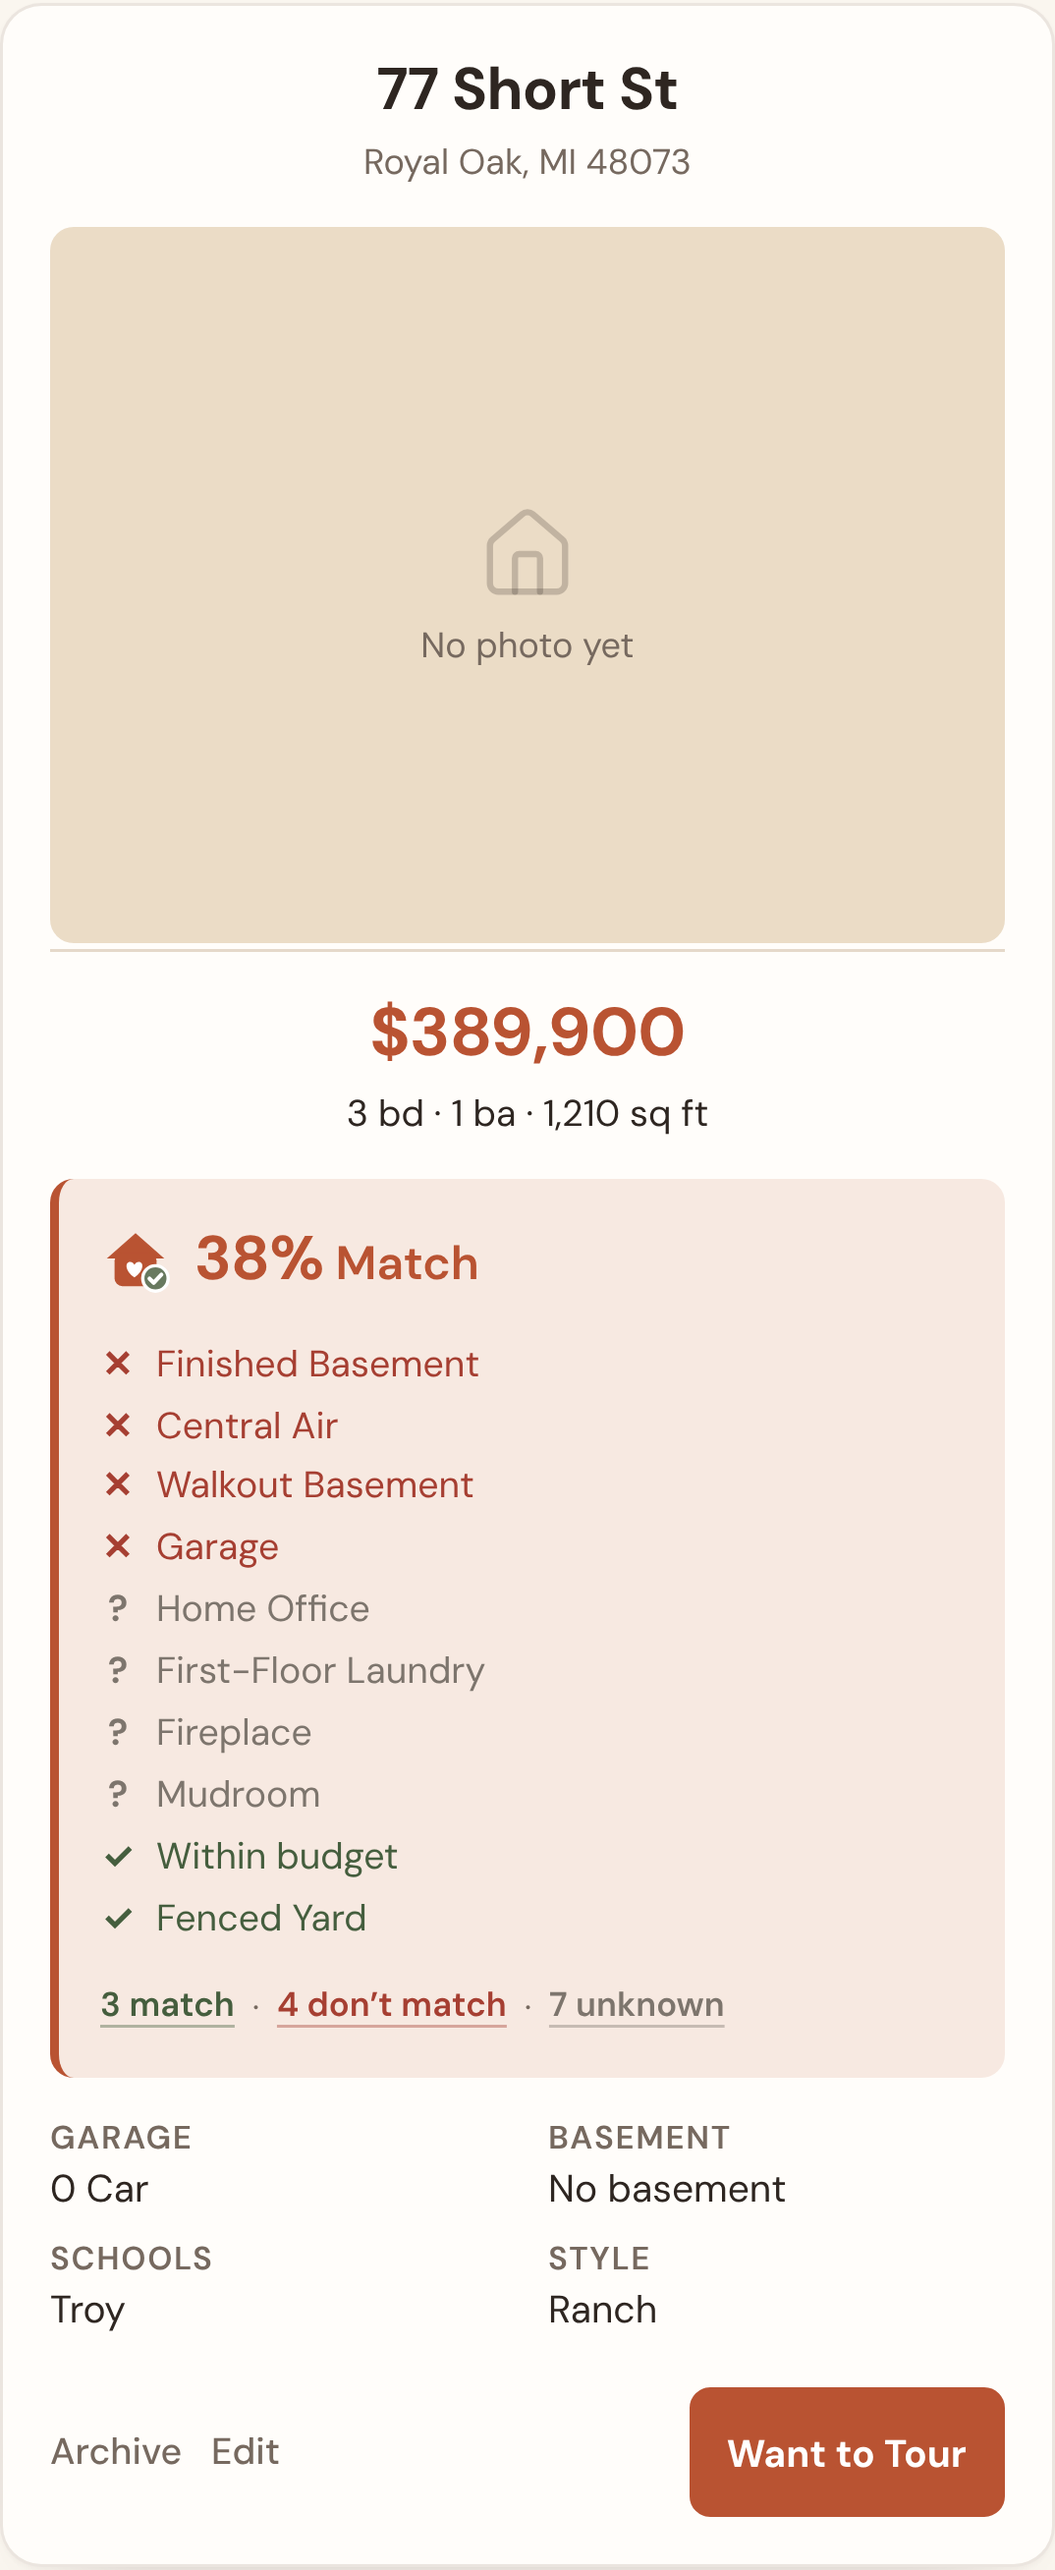
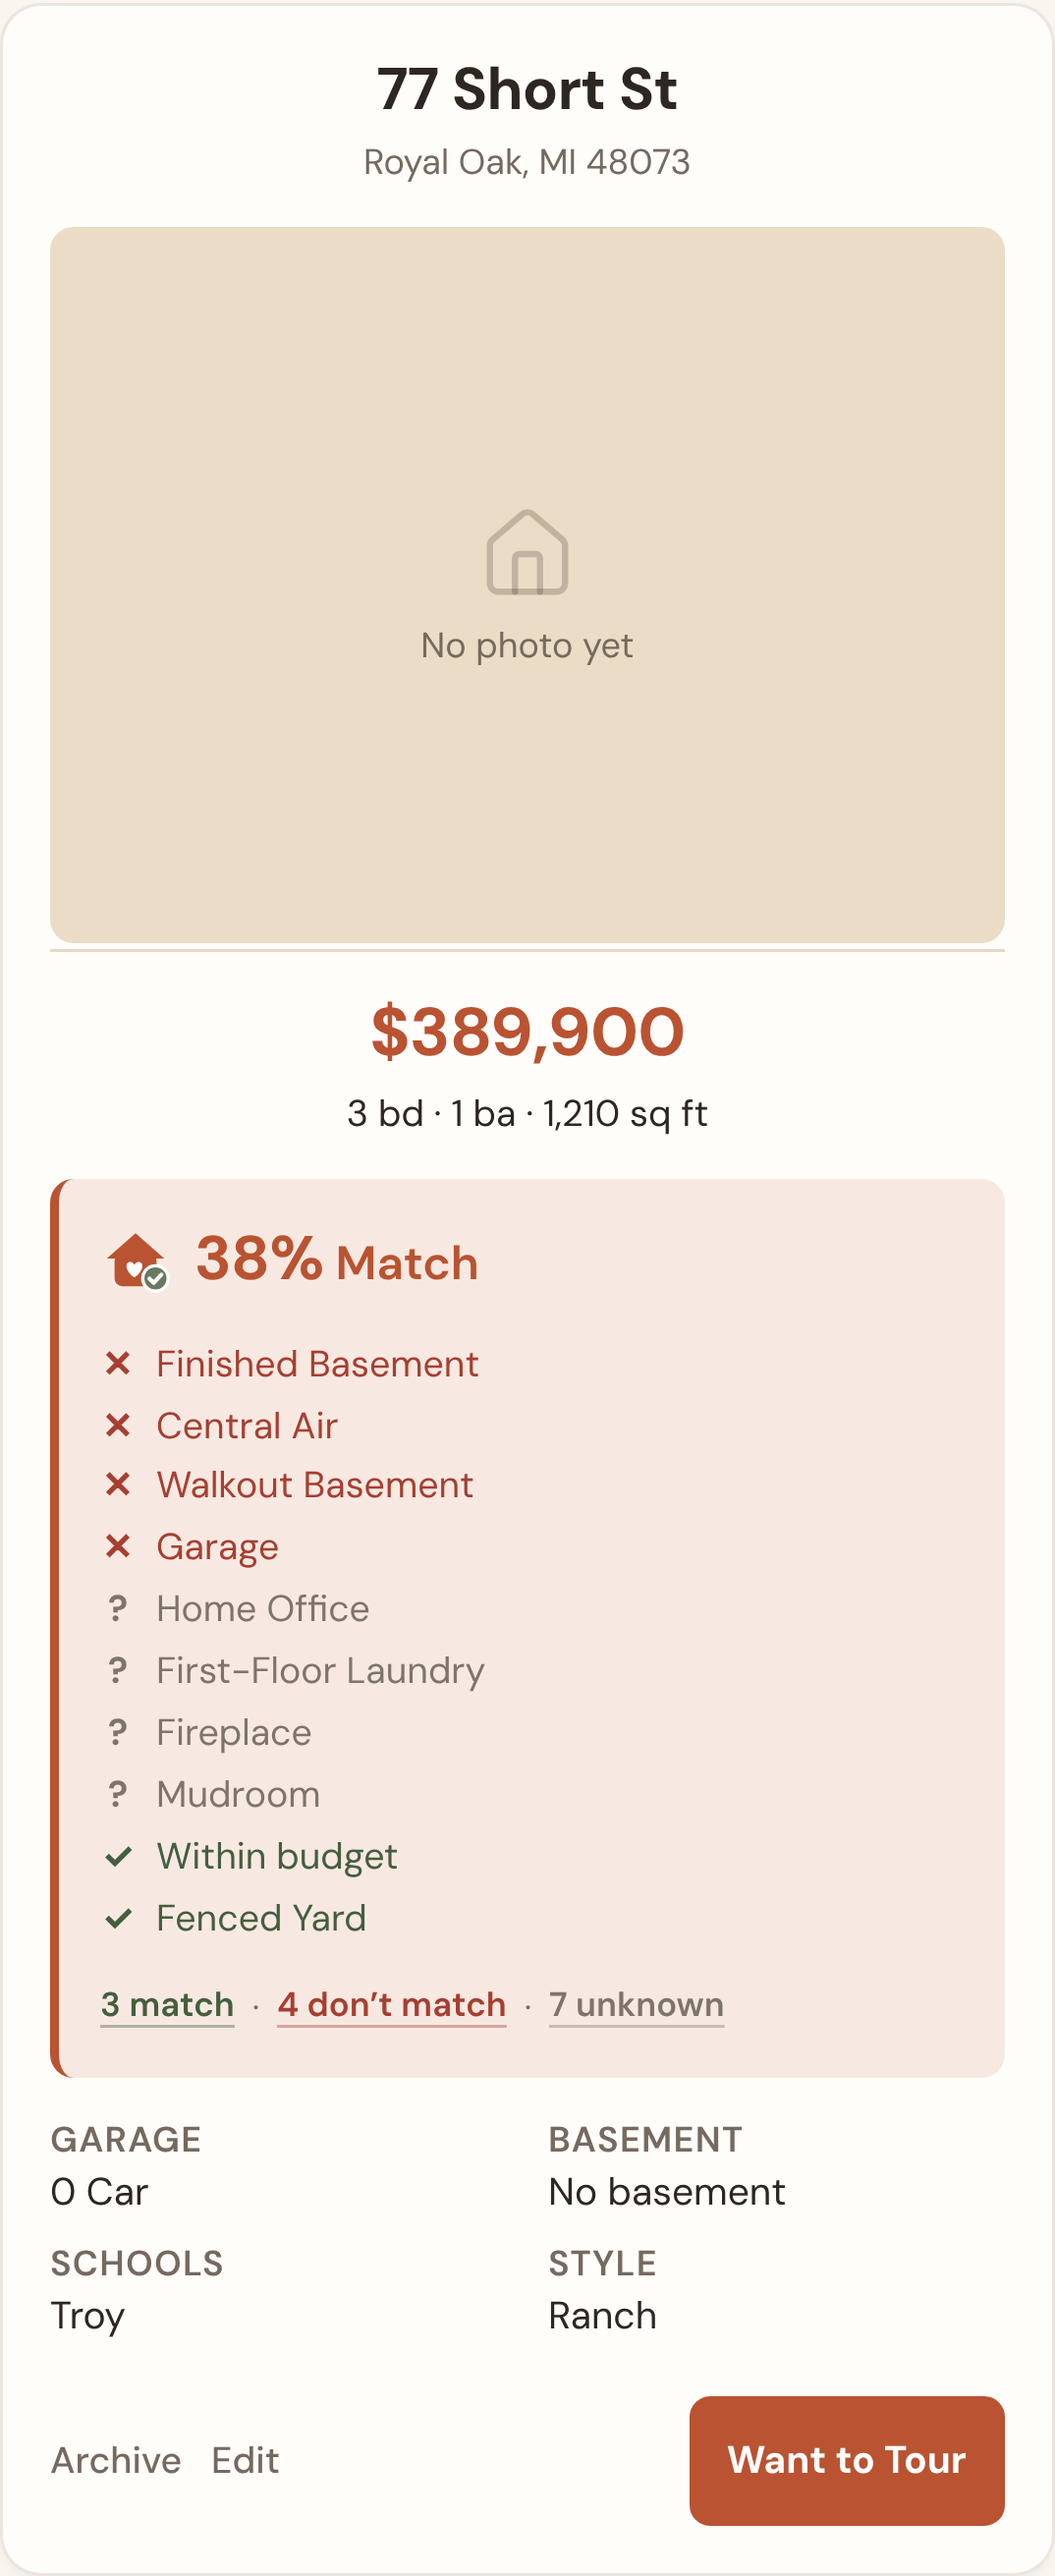
Home cards: property-fact labels at 12px with lighter tracking
The facts labels were 11px uppercase at .05em; on narrow cards that read
small. They are now 12px at .035em letter-spacing, still in the secondary
ink, so they stay quiet beside the 13px values.

Checked the 24-character full-row cutoff against the values the canonical
helpers produce (every basement condition x style, garage, home condition,
layout, and common district names) at 1440 (4-up), iPhone 390 and 320: no
common value is pushed to a full row when it would fit half (one borderline
case on iPhone, 153 of 155px), so the cutoff stays. "HOME CONDITION", the
longest label, fits a half cell even at 320. Order, facts and grid unchanged.

Screenshots in docs/home-card-polish-screenshots/after/ refreshed.

Claude-Session: https://claude.ai/code/session_01FSpiGUUczZFeGHK8tnvS7h

diff --git a/test/home-card-hierarchy.test.js b/test/home-card-hierarchy.test.js
@@ -187,7 +187,7 @@ test('criteria disclosure supports hover, focus, touch/click, Escape, and outsid
   assert.match(ui, /items\.map\(\(item\).*item\.label/);
 });
 
-test('card polish: room under the score, link-like criteria summaries with focus ring, facts never shrink below 11px labels / 13px values', () => {
+test('card polish: room under the score, link-like criteria summaries with focus ring, fact labels 12px small caps, values 13px', () => {
   const css = fs.readFileSync('src/app/globals.css', 'utf8');
   assert.match(css, /\.hh-must-summary \{[^}]*margin: 14px 0 0;/);
   assert.match(css, /\.hh-home-card \.hh-match-score-value strong \{ font-size: 21px;/);
@@ -195,6 +195,6 @@ test('card polish: room under the score, link-like criteria summaries with focus
   assert.match(css, /\.hh-match-summary-line \.hh-criteria-disclosure > button \{ text-decoration: underline;/);
   assert.match(css, /button\[aria-expanded="true"\] \{ text-decoration-color: currentColor; \}/);
   assert.match(css, /\.hh-criteria-disclosure>button:focus-visible\{outline:2px solid var\(--focus-ring\)/, 'the shared focus ring stays');
-  assert.match(css, /\.hh-property-fact dt \{[^}]*font: 600 11px/);
+  assert.match(css, /\.hh-property-fact dt \{[^}]*font: 600 12px\/1\.25 var\(--font-ui\); letter-spacing: \.035em; text-transform: uppercase;/);
   assert.match(css, /\.hh-property-fact dd \{[^}]*font-size: 13px;/);
 });

diff --git a/src/app/globals.css b/src/app/globals.css
@@ -2722,12 +2722,12 @@ body:has(.rl-root) { --flh-status-bar-bg: #f8f4ec; }
 .hh-match-empty { margin: 0; color: var(--ink-soft); font-size: 12px; }
 
 /* Property facts: a two-column grid, each fact's quiet label above its value
-   (the card's small-caps label style, as in "Why you archived it"). A long
+   (a 12px small-caps label in the card's secondary ink). A long
    value takes the full row instead of wrapping in a narrow column. */
 .hh-property-facts { display: grid; grid-template-columns: repeat(2, minmax(0, 1fr)); gap: 8px 14px; margin: 0; }
 .hh-property-fact { display: flex; flex-direction: column; gap: 1px; min-width: 0; }
 .hh-property-fact.is-wide { grid-column: 1 / -1; }
-.hh-property-fact dt { color: var(--ink-soft); font: 600 11px/1.25 var(--font-ui); letter-spacing: .05em; text-transform: uppercase; }
+.hh-property-fact dt { color: var(--ink-soft); font: 600 12px/1.25 var(--font-ui); letter-spacing: .035em; text-transform: uppercase; }
 .hh-property-fact dd { margin: 0; min-width: 0; color: var(--ink); font-size: 13px; line-height: 1.35; overflow-wrap: break-word; text-wrap: pretty; }
 @container (max-width: 220px) {
   .hh-property-facts { grid-template-columns: minmax(0, 1fr); }
